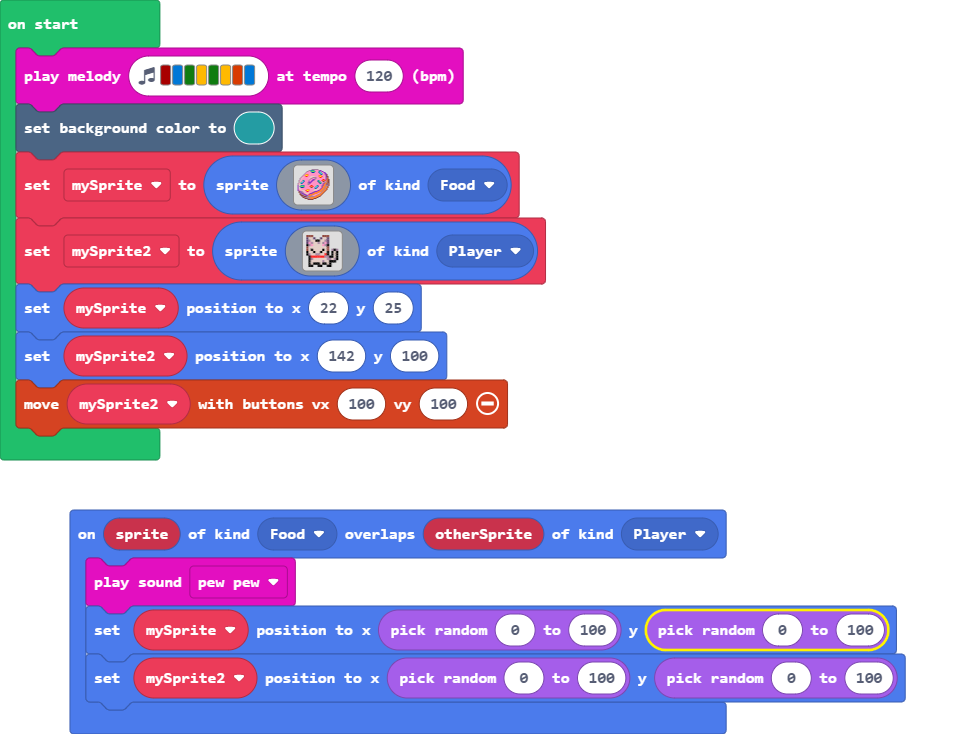
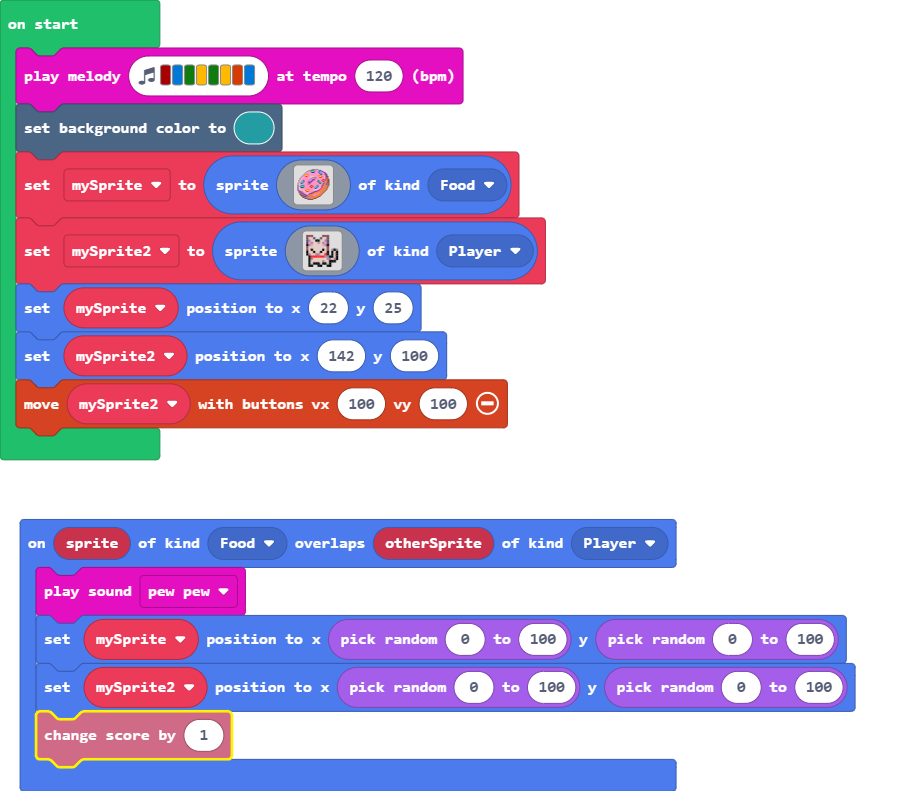
add score

diff --git a/main.ts b/main.ts
@@ -2,6 +2,7 @@ sprites.onOverlap(SpriteKind.Food, SpriteKind.Player, function (sprite, otherSpr
     music.pewPew.play()
     mySprite.setPosition(randint(0, 100), randint(0, 100))
     mySprite2.setPosition(randint(0, 100), randint(0, 100))
+    info.changeScoreBy(1)
 })
 let mySprite2: Sprite = null
 let mySprite: Sprite = null
